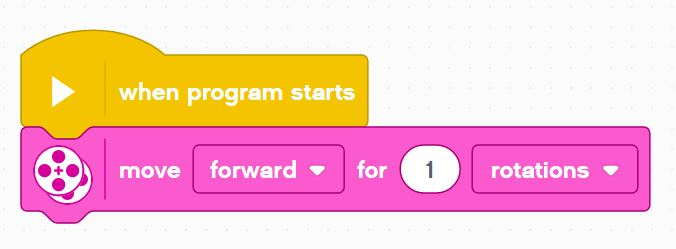
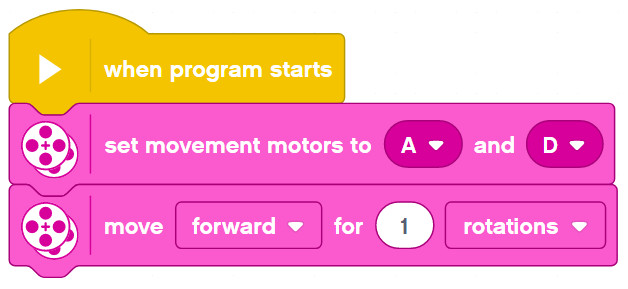
Movement basics code images

diff --git a/docs/15-Robotics-with-EV3/20-Basic-Movements/20-Movement-Blocks.html b/docs/15-Robotics-with-EV3/20-Basic-Movements/20-Movement-Blocks.html
@@ -37,6 +37,15 @@
             <h2>Basic Movement Blocks</h2>
 <p><img alt="" src="images/movementtab.jpg" /></p>
 <p>The following blocks are good to use for some basic sequential programs where you program the robot to drive in a particular path.</p>
+<p>Use the blocks below to test your robot's mobility:</p>
+<ol>
+<li>Drive straight for 1 rotation</li>
+<li>Drive back for 180 degrees</li>
+<li>Drive straight for 1 second</li>
+<li>Make a perfect Right turn</li>
+<li>Make a perfect Left turn</li>
+<li>Drive in circles for 5 seconds</li>
+</ol>
 <h2>Set Movement Motors</h2>
 <p><img alt="" src="images/setmovementmotors.jpg" /></p>
 <p>Tell the Brick which 2 Motor ports to use for the Right &amp; Left wheel motors.</p>

diff --git a/docs/15-Robotics-with-EV3/20-Basic-Movements/10-Just-Go-Straight.html b/docs/15-Robotics-with-EV3/20-Basic-Movements/10-Just-Go-Straight.html
@@ -66,6 +66,7 @@ Look for something like this icon:</p>
 <li>Hit the <strong>Play</strong> button</li>
 </ul>
 <p><img alt="" src="images/gostraight.jpg" /></p>
+<p>You may not need to set the Motor ports.  The default motor port setting is B &amp; C.  To explicitly use A &amp; D ports do as above.</p>
 <h2>Going Straight?</h2>
 <p>LEGO robots, like all robots, don't just go straight without some work.  </p>
 <p>You can tell both motors to go at the same speed, but the tires may still rotate at different speeds.  </p>

diff --git a/courses/15 Robotics with EV3/20 Basic Movements/20 Movement Blocks.md b/courses/15 Robotics with EV3/20 Basic Movements/20 Movement Blocks.md
@@ -29,6 +29,8 @@ The default is B & C.  If you want to use A & D, you better set it properly at t
 Use this block to go Forward or Backward only.
 The block tries it best to move the two main motors connected at the same speed in the same direction.
 
+![](images/movefwdchoices.jpg)
+
 - For __ Rotations
     - The amount you enter is the number of times the motor shafts will rotate before coming to a stop.  
 

diff --git a/courses/15 Robotics with EV3/20 Basic Movements/10 Just Go Straight.md b/courses/15 Robotics with EV3/20 Basic Movements/10 Just Go Straight.md
@@ -56,6 +56,8 @@ You will need to enter a Passkey and press enter on the EV3 brick.
 
 ![](images/gostraight.jpg)
 
+You may not need to set the Motor ports.  The default motor port setting is B & C.  To explicitly use A & D ports do as above.
+
 ## Going Straight?
 
 LEGO robots, like all robots, don't just go straight without some work.  
